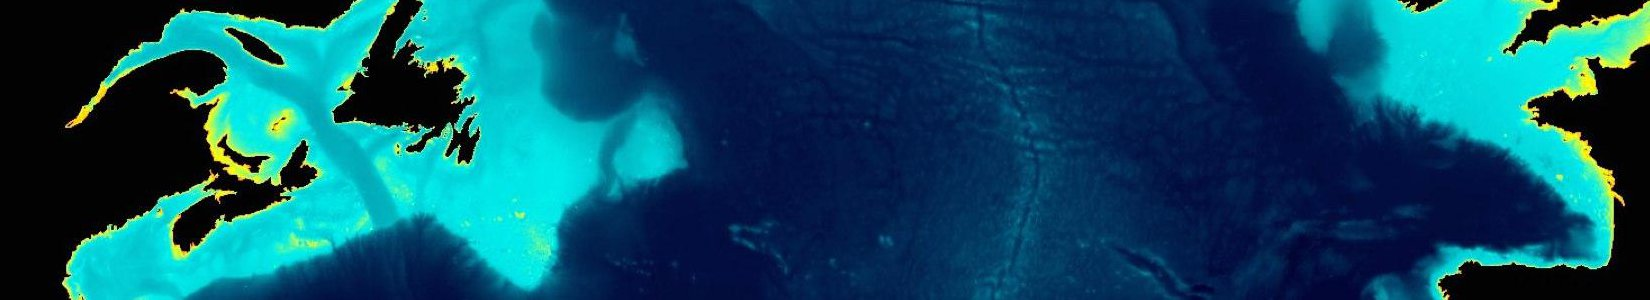
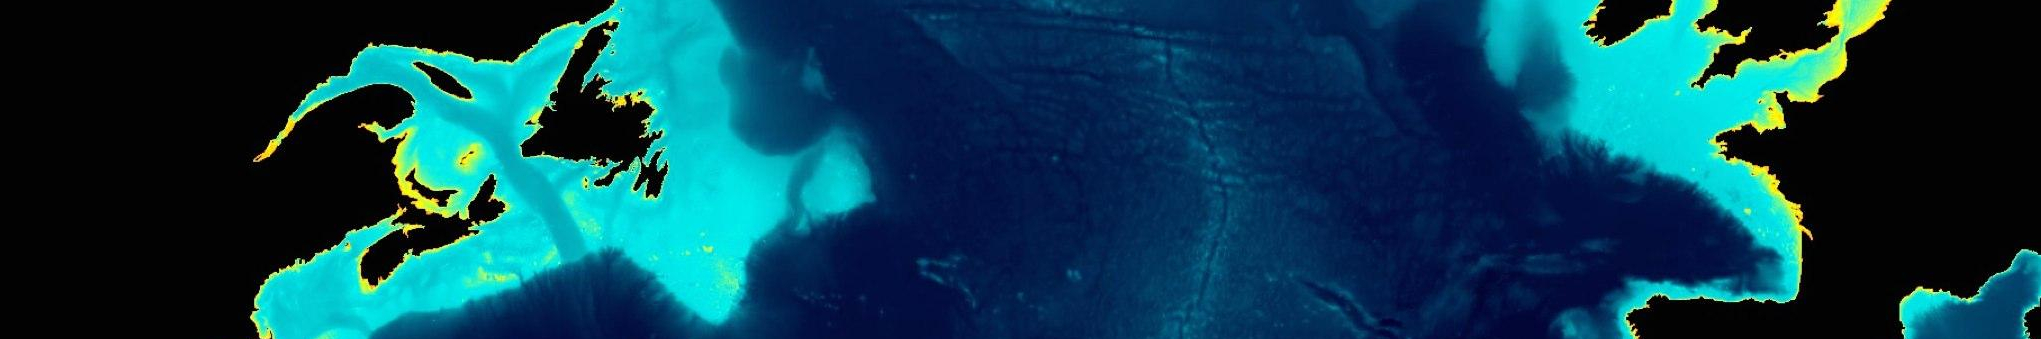
carousel image

diff --git a/_includes/carousel.html b/_includes/carousel.html
@@ -12,7 +12,8 @@
         <!-- Wrapper for slides -->
         <div class="carousel-inner" role="listbox">
             <div class="item active">
-                <img src="{{site.baseurl}}/assets/img/carousel/north-atlantic.jpeg" alt="">
+                <img src="{{site.baseurl}}/assets/img/carousel/north-atlantic.jpeg" style="width:100%;" alt="">
+<!--                <img src="{{site.baseurl}}/assets/img/carousel/north-atlantic.jpeg" style="width:100%;" alt=""> -->
                 <div class="container">
                 <div class="carousel-caption">
                     <h2 align="left">MEOM a computational oceanography research group at IGE</h2>
